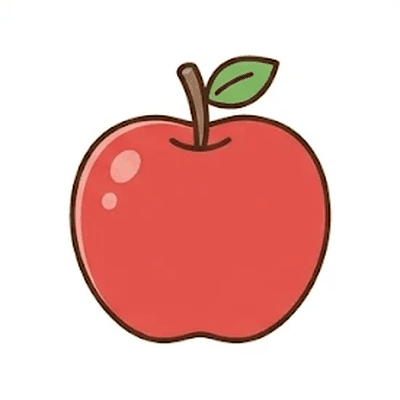
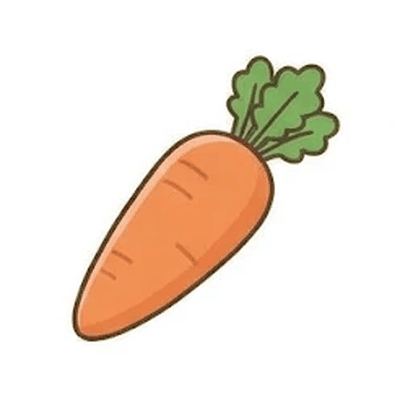
漢字ガンバ：一〜五 の絵を差しかえ（一はにんじんに。例文も変更）
Claude-Session: https://claude.ai/code/session_012EjfNPvapmJ7mSTDfKW9DJ

diff --git a/japanese/漢字ガンバ.html b/japanese/漢字ガンバ.html
@@ -232,7 +232,7 @@
 // 字｜音読み｜訓読み｜ことば｜ことばのよみ｜仮の絵（絵文字）｜使い方の文
 // 絵は kanji-ganba/img/字.png があればその画像を、なければ絵文字を出す
 const RAW = `
-一|イチ・イツ|ひと・ひと(つ)|一つ|ひとつ|☝|りんごが 一つ あります。
+一|イチ・イツ|ひと・ひと(つ)|一つ|ひとつ|☝|にんじんが 一つ あります。
 二|ニ|ふた・ふた(つ)|二|に|2⃣|二人で あるきます。
 三|サン|み・み(っつ)|三|さん|3⃣|おにぎりが 三こ あります。
 四|シ|よ・よん・よ(っつ)|四|よん|4⃣|四月に 一年生に なりました。
@@ -401,7 +401,7 @@ function similarOf(k) {
 // 人が中心の絵。絵をえらぶ問題では、これどうしを いっしょに並べない（見分けにくいため）
 const PEOPLE = '二人子女男右左足力立休見出入早正学先年字文名土雨';
 // 絵が にている組み合わせ（これも いっしょに並べない）
-const LOOKALIKE = ['一赤', '空気雨', '天月夕', '林森木', '日気夕', '小草花', '田村町', '学本字文'];
+const LOOKALIKE = ['空気雨', '天月夕', '林森木', '日気夕', '小草花', '田村町', '学本字文'];
 const lookalike = (a, b) => LOOKALIKE.some(g => g.includes(a) && g.includes(b));
 function distractors(k, n, opt = {}) {
   const res = [];

diff --git a/japanese/kanji-ganba/絵の指示文.md b/japanese/kanji-ganba/絵の指示文.md
@@ -29,7 +29,7 @@
 ### 一（一つ・ひとつ）→ `一.png`
 
 ```
-「一つ（ひとつ）」の意味がひと目でわかる絵を1枚かいてください。場面のヒント：りんごが 一つ あります。
+「一つ（ひとつ）」の意味がひと目でわかる絵を1枚かいてください。場面のヒント：にんじんが 一つ あります。
 ```
 
 ### 二（に）→ `二.png`
